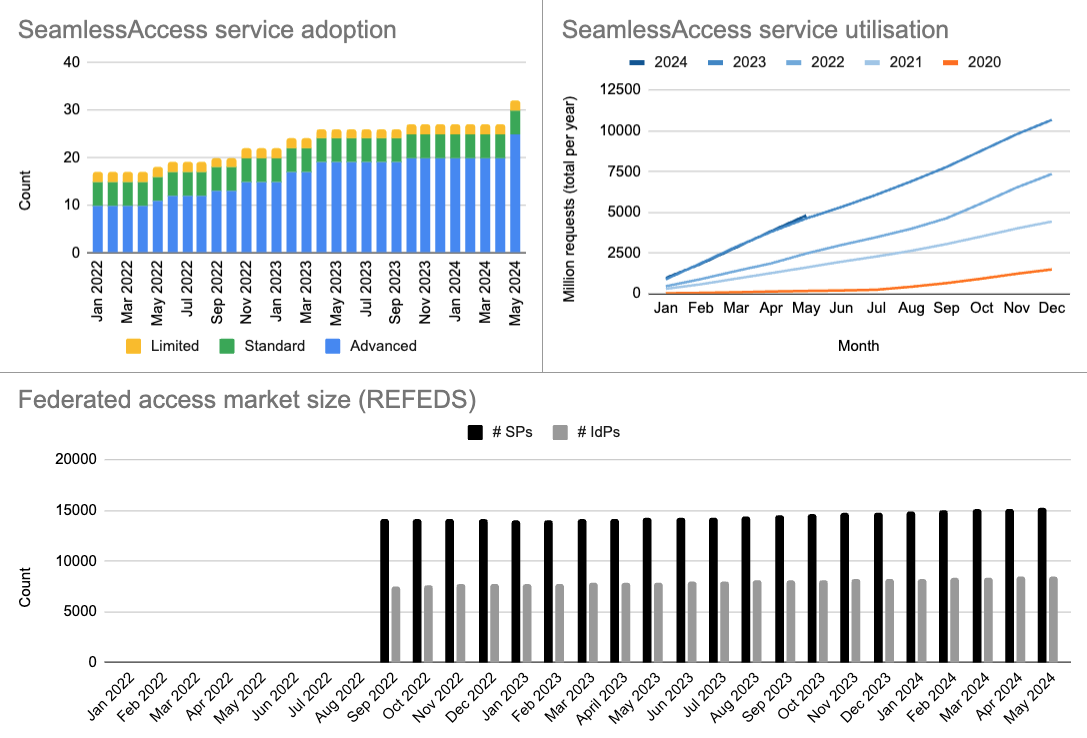
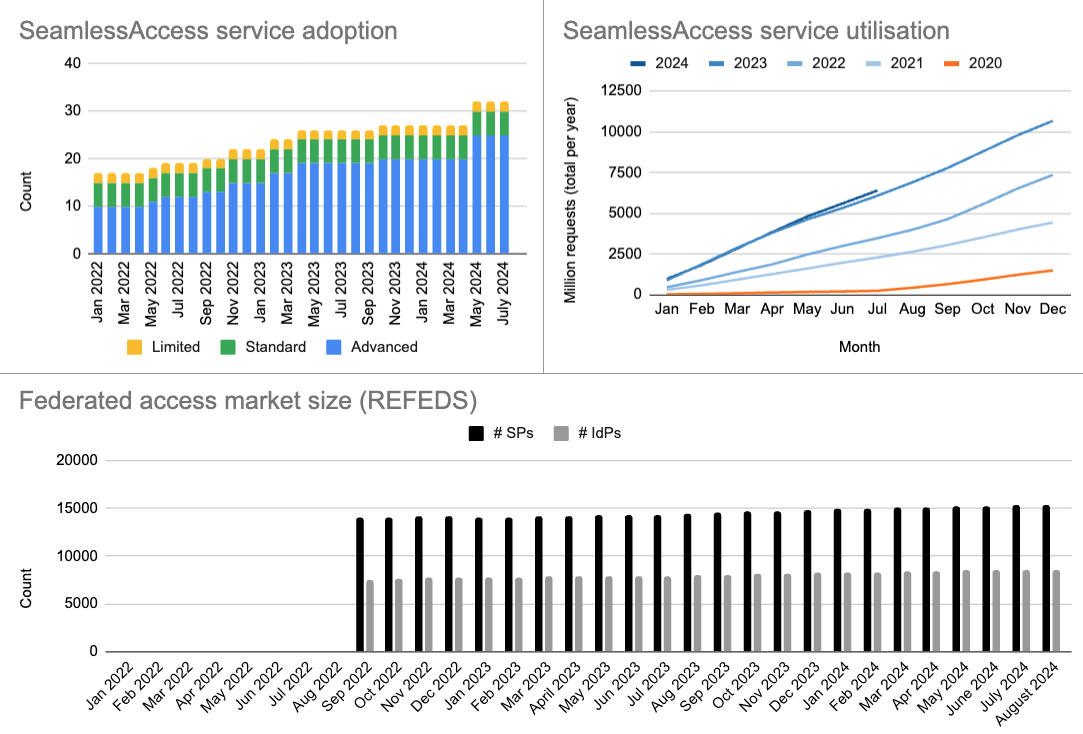
Added SPs and updated data dashboard

diff --git a/content/stakeholders/for-service-providers.md b/content/stakeholders/for-service-providers.md
@@ -49,6 +49,12 @@ More information on how to integrate with SeamlessAccess, as well as our source 
     <td>Advanced</td>
     <td><a href="https://pubs.acs.org/action/ssostart?redirectUri=/page/remoteaccess/confirm">Pubs.acs.org</a> </td>
   </tr>
+  
+  <tr>
+    <td>American Mathematical Society</td>
+    <td>Advanced</td>
+    <td><a href=""></td>
+  </tr>
  
  
   <tr>
@@ -57,12 +63,19 @@ More information on how to integrate with SeamlessAccess, as well as our source 
     <td><a href="https://boneandjoint.org.uk/Article/10.1302/0301-620X.105B3.BJJ-2023-0145">The Bone & Joint journal</a> </td>
   </tr>
   
+  <tr>
+    <td>Bridget Williams Books</td>
+    <td>Advanced</td>
+    <td><a href=""></a> </td>
+  </tr>
+  
   
   <tr>
     <td>British Online Archives</td>
     <td>Advanced</td>
     <td><a href="http://www.britishonlinearchives.digital."> Britishonlinearchives.digital</a> </td>
   </tr>
+  
       <tr>
     <td>Cambridge University Press (Core and Higher Education)</td>
     <td>Advanced</td>
@@ -96,6 +109,11 @@ More information on how to integrate with SeamlessAccess, as well as our source 
     <td><a href="https://www.lyellcollection.org/doi/10.1144/jgs2021-149">Lyell collection</a></td>
   </tr>
 
+  <tr>
+    <td>Haynes</td>
+    <td>Advanced</td>
+    <td><a href=""></a></td>
+  </tr>
 
   <tr>
     <td>IEEE</td>
@@ -130,13 +148,22 @@ More information on how to integrate with SeamlessAccess, as well as our source 
   <tr>
     <td>Medici.tv</td>
     <td>Advanced</td>
-    <td><a href="https://edu.medici.tv/">Medici.tv</a></td>
+    <td><a href=""></a></td>
   </tr>
+  
   <tr>  <tr>
     <td>Nature</td>
     <td>Advanced</td>
     <td><a href="https://www.nature.com/articles/s41586-019-1750-x">Nature.com</a></td>
   </tr>
+  
+  <tr>  <tr>
+    <td>Neurosurgical Atlas</td>
+    <td>Advanced</td>
+    <td></td>
+  </tr>
+  
+  
     <tr>
     <td>REFEDS Metadata Explorer Tool</td>
     <td>Standard</td>
